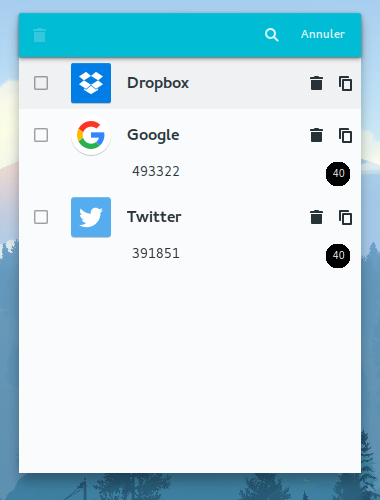
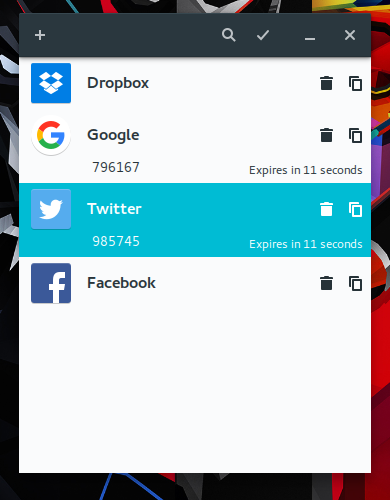
replace the spinner with a normal string

diff --git a/TwoFactorAuth/widgets/listrow.py b/TwoFactorAuth/widgets/listrow.py
@@ -19,9 +19,9 @@ class ListBoxRow(Thread):
     code_generated = True
 
     row = None
-    drawing_area = None
     code_box = None
     code_label = None
+    timer_label = None
 
     def __init__(self, parent, uid, name, secret_code, logo):
         Thread.__init__(self)
@@ -185,8 +185,8 @@ class ListBoxRow(Thread):
         remove_event.connect("button-press-event", self.parent.remove_application)
         h_box.pack_end(remove_event, False, True, 6)
 
-        self.drawing_area = Gtk.DrawingArea()
-        self.drawing_area.set_size_request(30, 30)
+        self.timer_label = Gtk.Label(xalign=0)
+        self.timer_label.set_label(_("Expires in %s seconds") % self.counter)
         self.code_label = Gtk.Label(xalign=0)
         self.code_label.get_style_context().add_class("application-secret-code")
         if self.code_generated:
@@ -195,7 +195,7 @@ class ListBoxRow(Thread):
             self.code_label.set_text(_("Error during the generation of code"))
         self.code_box.set_no_show_all(True)
         self.code_box.set_visible(False)
-        self.code_box.pack_end(self.drawing_area, False, True, 6)
+        self.code_box.pack_end(self.timer_label, False, True, 6)
         self.code_box.pack_start(self.code_label, False, True, 6)
 
         self.row.add(box)
@@ -214,7 +214,7 @@ class ListBoxRow(Thread):
                 self.regenerate_code()
                 if self.timer != 0:
                     self.timer = 0
-            self.drawing_area.connect("draw", self.expose)
+            self.update_timer_label()
             self.row.changed()
             sleep(1)
 
@@ -244,34 +244,6 @@ class ListBoxRow(Thread):
             label.set_text(_("Couldn't generate the secret code"))
             self.code_generated = False
 
-    def expose(self, drawing_area, cairo):
-        try:
-            if self.code_generated:
-                is_dark_mode = Gtk.Settings.get_default().get_property("gtk-application-prefer-dark-theme")
+    def update_timer_label(self):
+        self.timer_label.set_label(_("Expires in %s seconds") % self.counter)
 
-                cairo.set_line_width(0.1)
-
-                cairo.arc(15, 15, 12, 0, (self.counter * 2 * pi / self.counter_max))
-                if not is_dark_mode:
-                    cairo.set_source_rgb(0, 0, 0)
-                else:
-                    cairo.set_source_rgb(1, 1, 1)
-                cairo.fill_preserve()
-                # TODO : get colors from default theme
-
-                cairo.select_font_face("Lato, Roboto, Cantarell, Sans-Serif")
-                if self.counter < self.counter_max / 3:
-                    if not is_dark_mode:
-                        cairo.set_source_rgb(0, 0, 0)
-                    else:
-                        cairo.set_source_rgb(1, 1, 1)
-                else:
-                    if not is_dark_mode:
-                        cairo.set_source_rgb(1, 1, 1)
-                    else:
-                        cairo.set_source_rgb(0, 0, 0)
-                cairo.move_to(12 - len(str(self.counter)), 18)
-                cairo.show_text(str(self.counter))
-        except Exception as e:
-            logging.error(str(e))
-        return False

diff --git a/TwoFactorAuth/widgets/window.py b/TwoFactorAuth/widgets/window.py
@@ -57,8 +57,8 @@ class Window(Gtk.ApplicationWindow):
                                        application=self.app)
         self.set_position(Gtk.WindowPosition.CENTER)
         self.set_wmclass(self.app.package, "TwoFactorAuth")
-        self.resize(380, 500)
-        self.set_size_request(380, 500)
+        self.resize(390, 500)
+        self.set_size_request(390, 500)
         self.set_resizable(False)
         self.connect("key_press_event", self.on_key_press)
         self.connect("delete-event", lambda x, y: self.app.on_quit())

diff --git a/TwoFactorAuth/widgets/change_password.py b/TwoFactorAuth/widgets/change_password.py
@@ -23,7 +23,7 @@ class PasswordWindow(Gtk.Window):
         self.show_all()
 
     def generate_window(self):
-        Gtk.Window.__init__(self, title=_("Change password") modal=True, destroy_with_parent=True)
+        Gtk.Window.__init__(self, title=_("Change password"), modal=True, destroy_with_parent=True)
         self.connect("delete-event", self.close_window)
         self.resize(300, 100)
         self.set_border_width(12)
